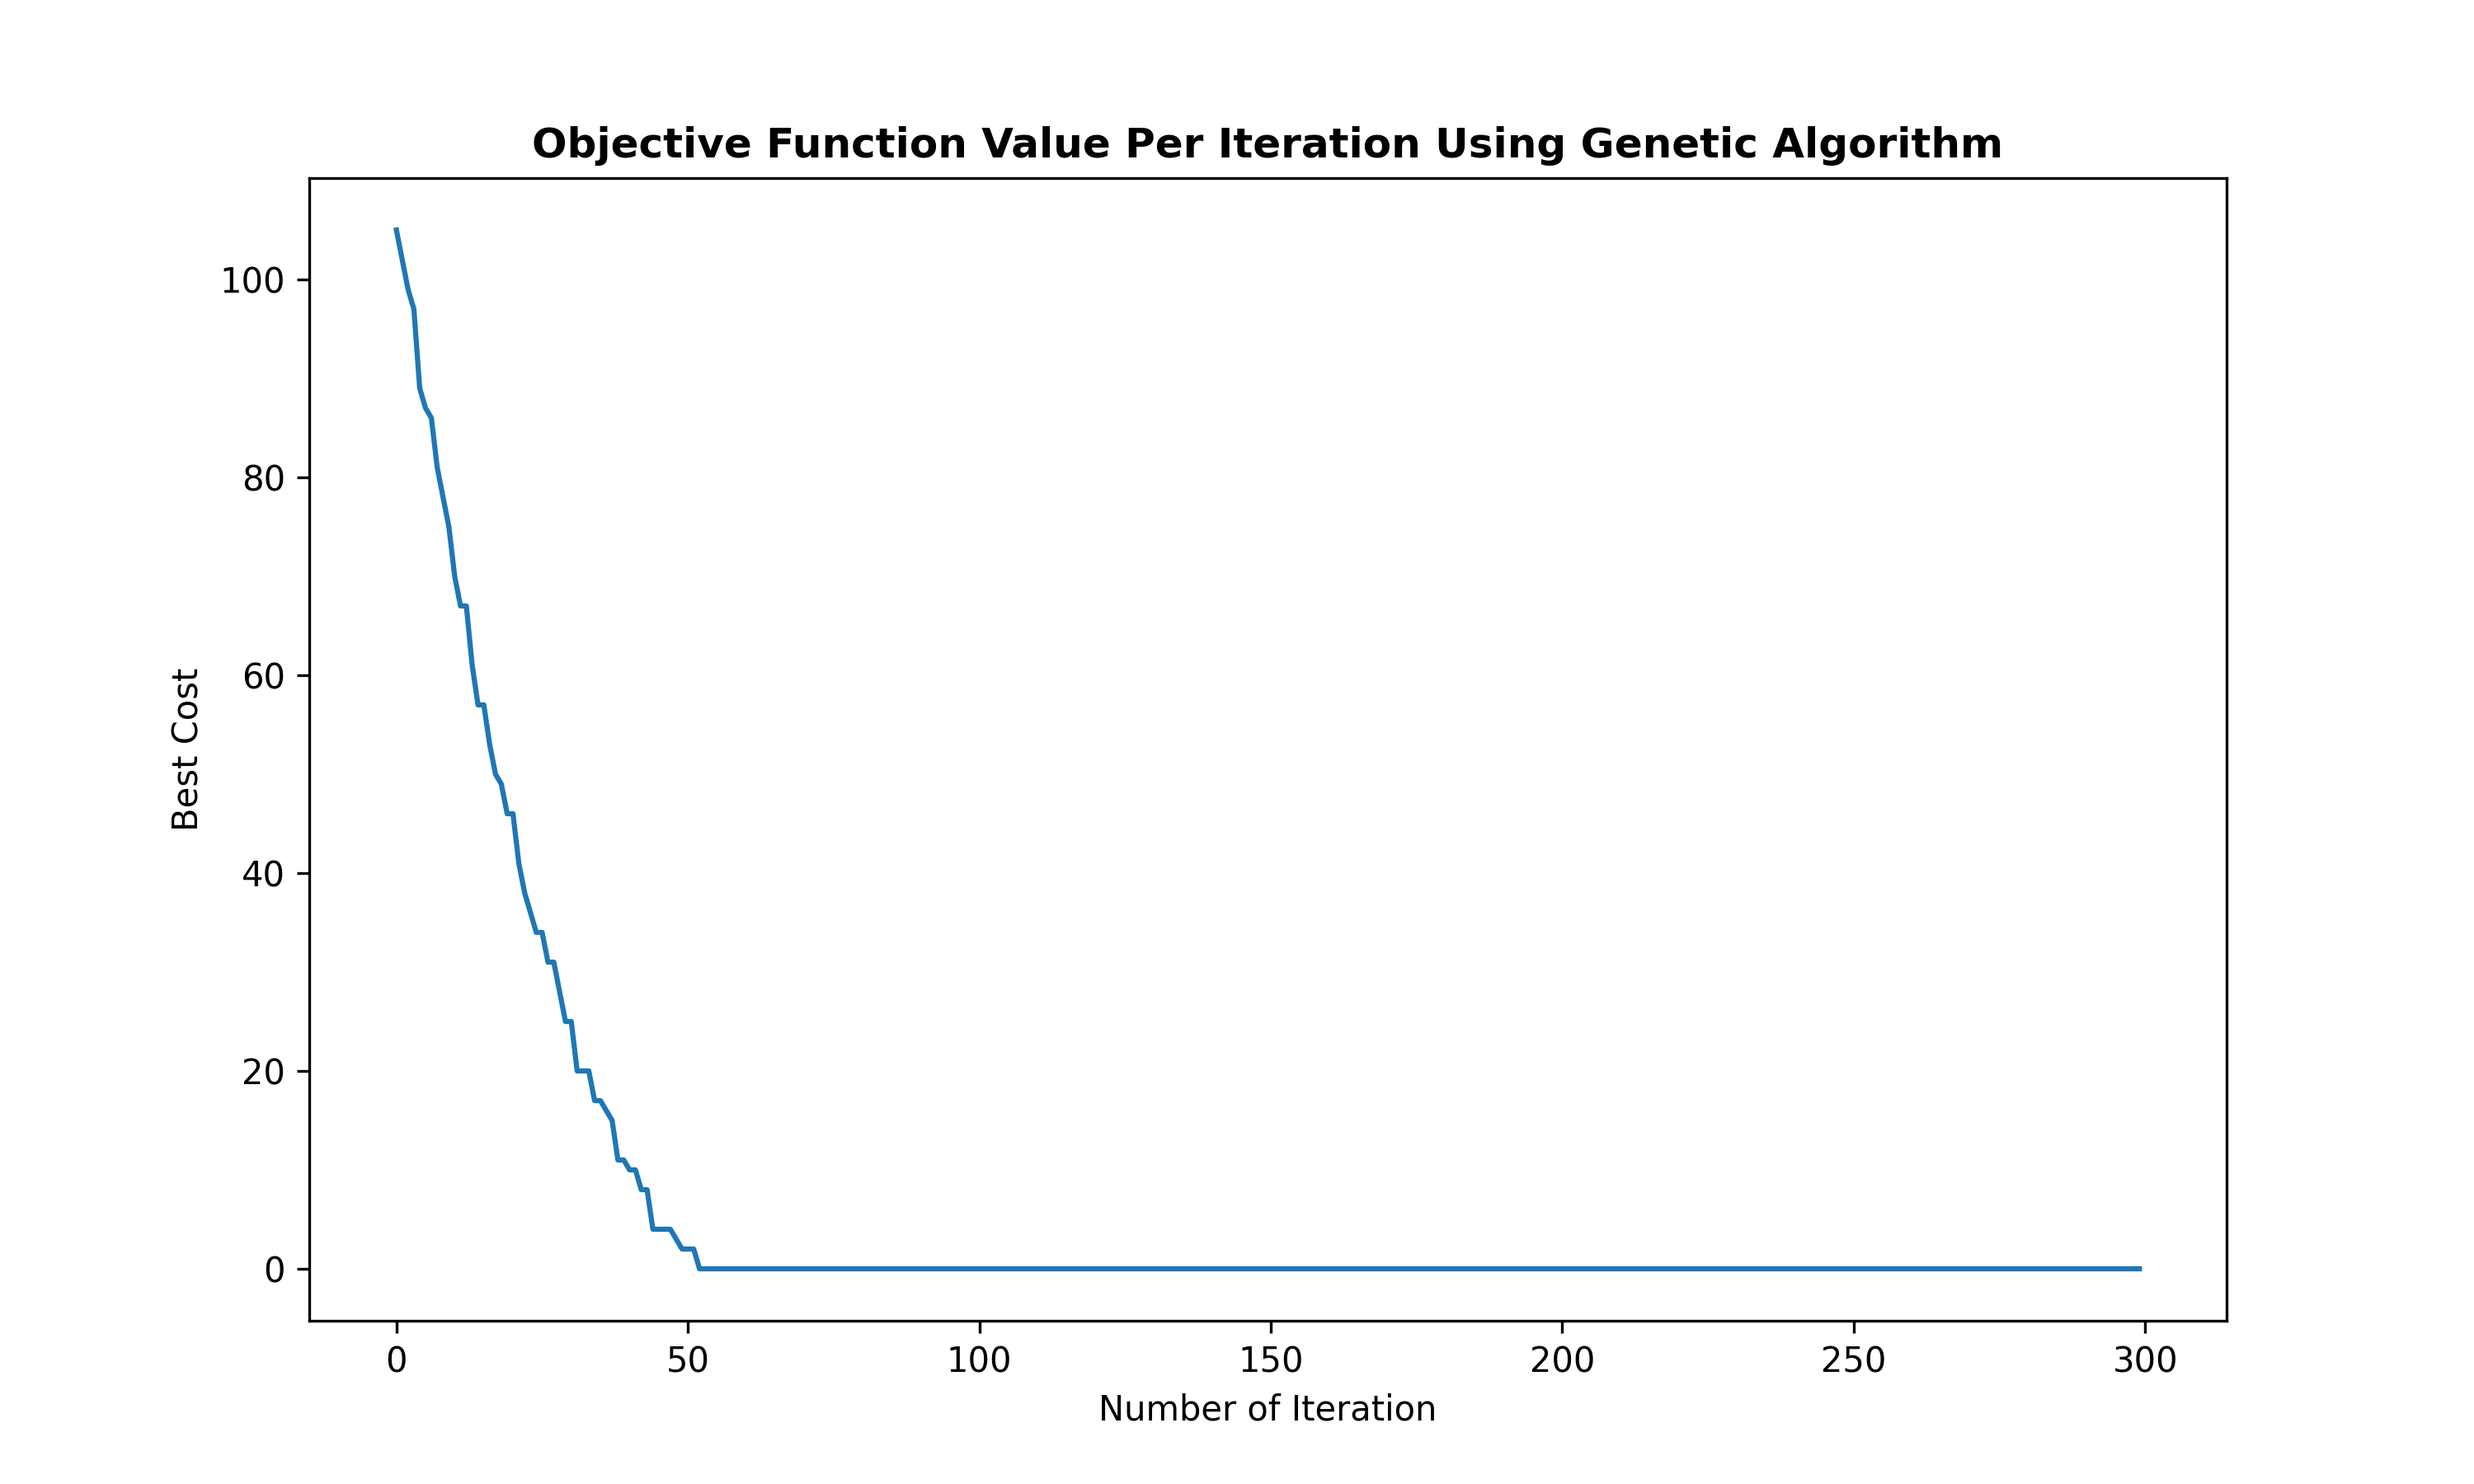
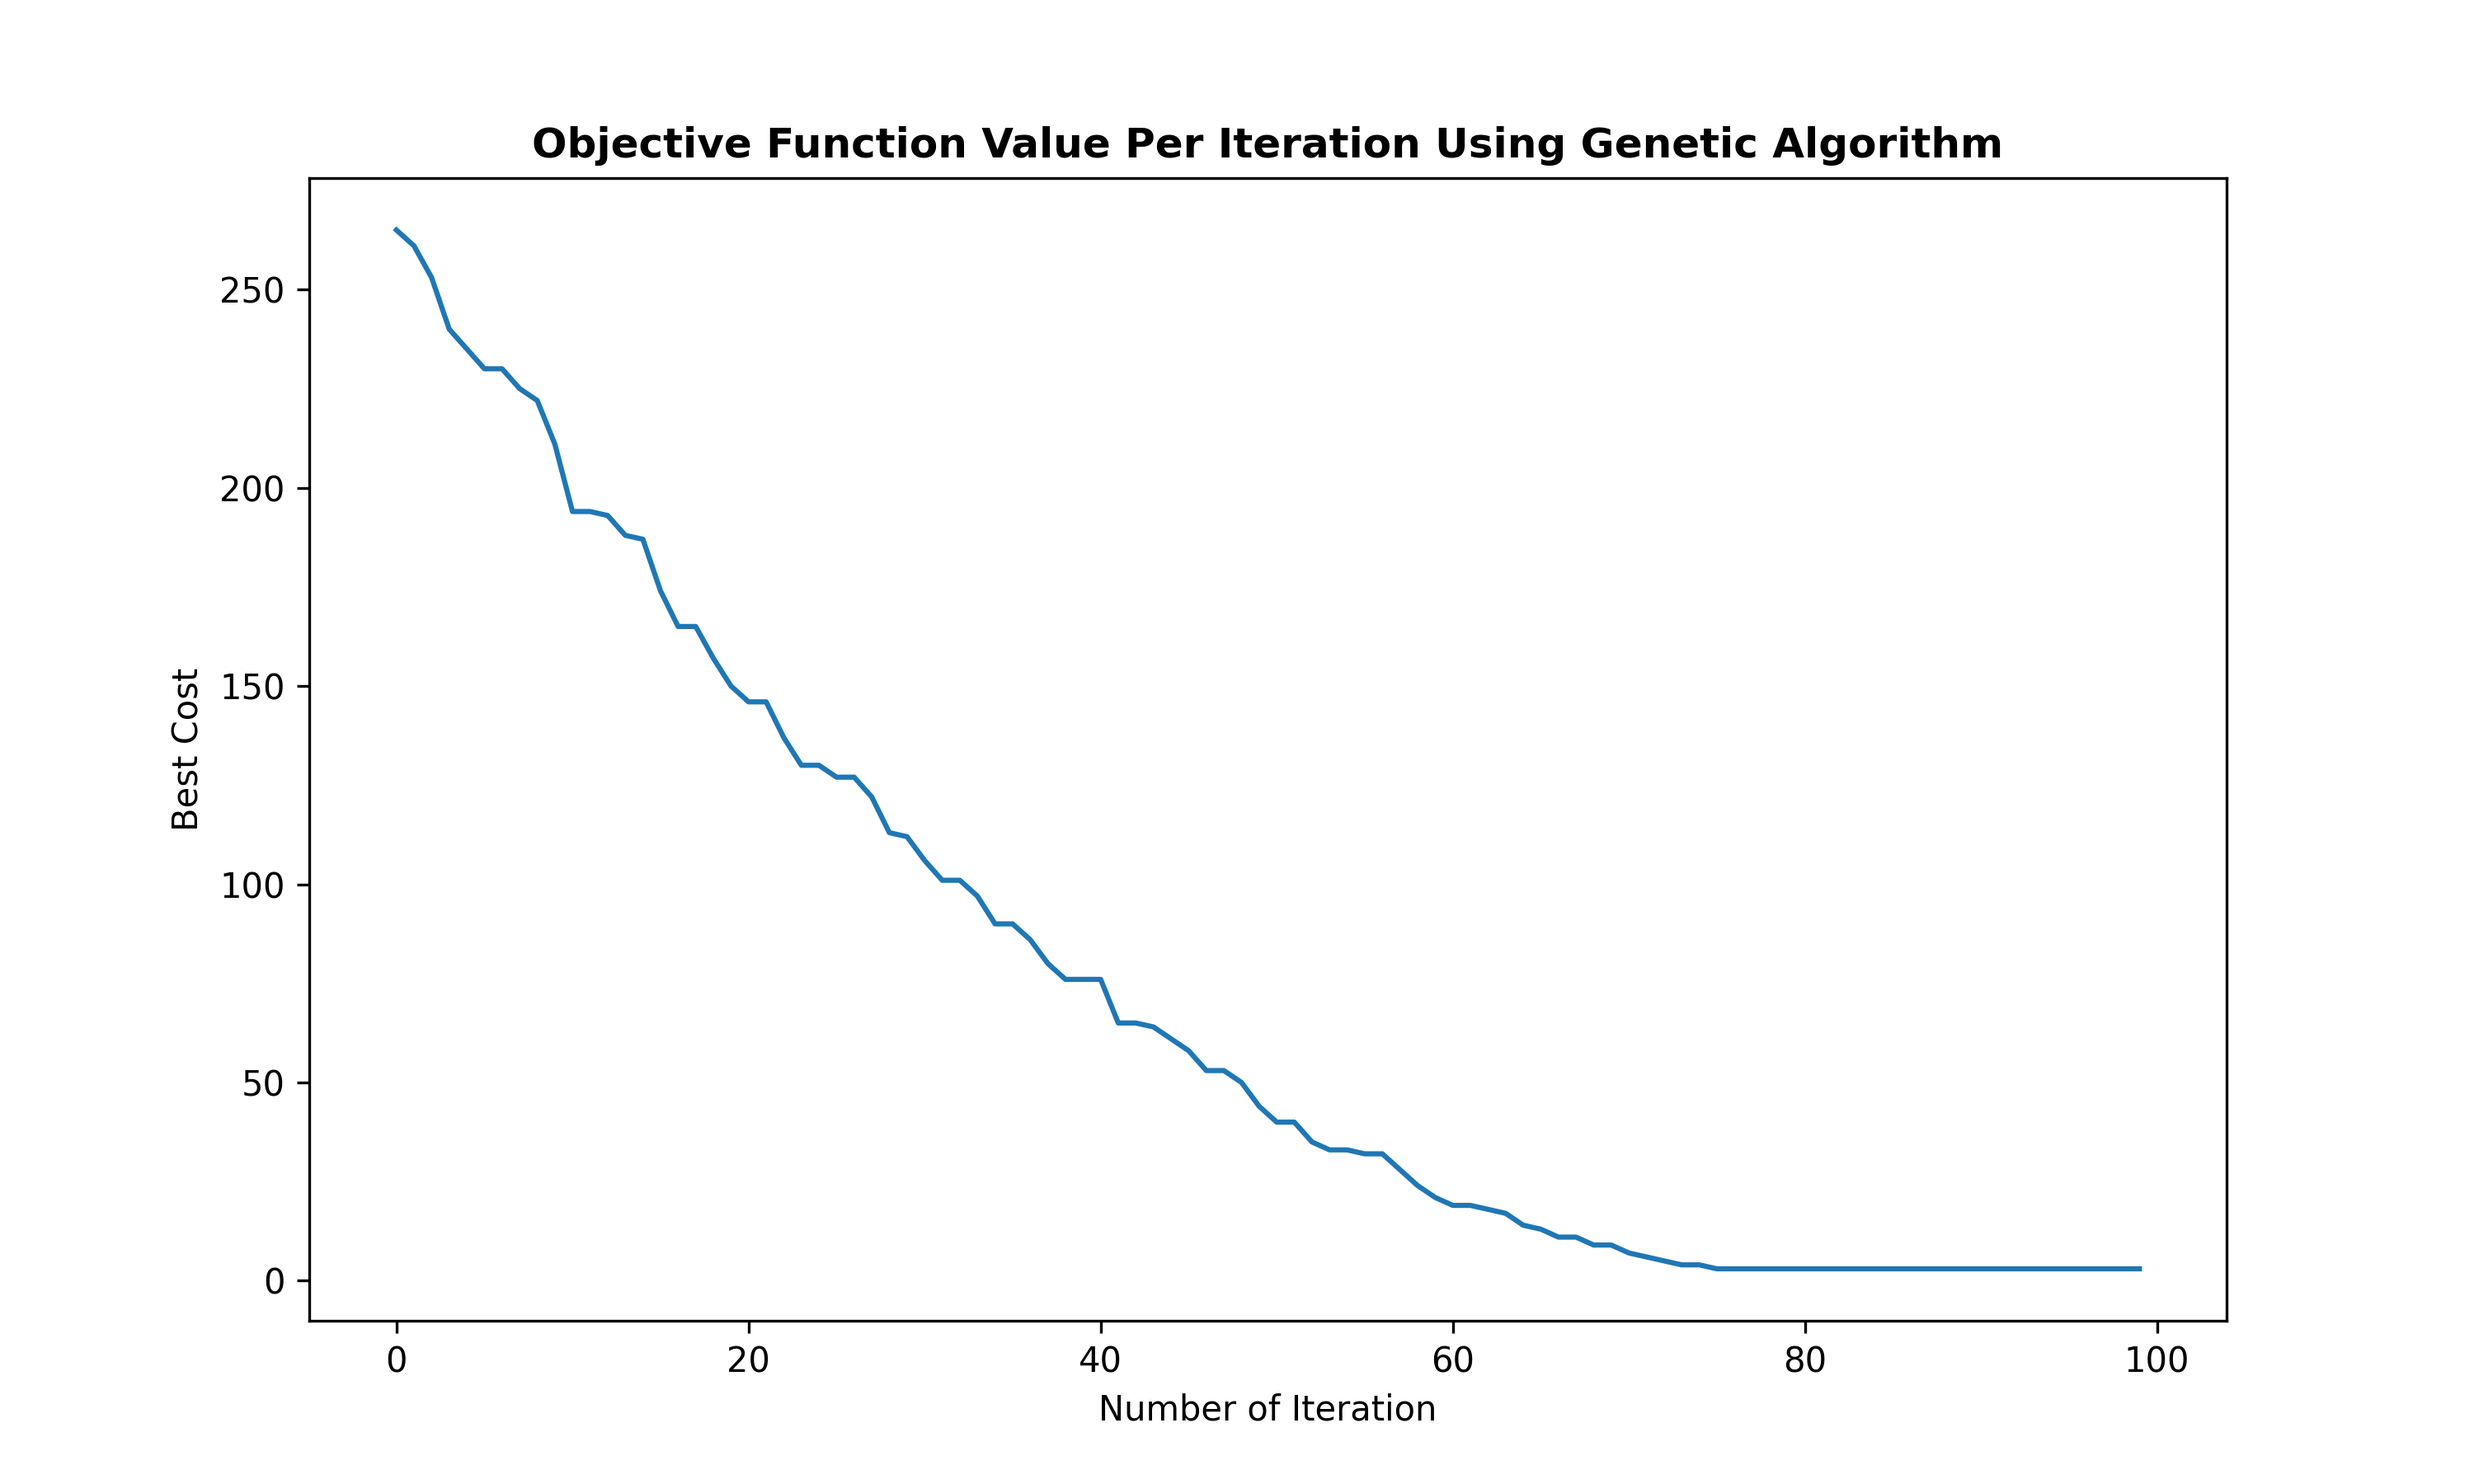
minOne problem with 600 binary variables. (best cost=3.0)

diff --git a/min_one_problem/main.py b/min_one_problem/main.py
@@ -7,19 +7,19 @@ def main():
 
     cost_func = cost_function
 
-    type_number_of_variables = {"binary1D": [250]}
+    type_number_of_variables = {"binary1D": [600]}
 
     solution_method = GA(cost_function=cost_func,
                          type_number_of_variables=type_number_of_variables,
-                         max_iteration=300,
-                         number_of_population=100,
+                         max_iteration=100,
+                         number_of_population=150,
                          parents_selection_method="roulette_wheel_selection",
                          selection_pressure_for_roulette_wheel=7,
                          tournament_size=2,
                          crossover_method="uniform",
-                         crossover_percentage=0.7,
+                         crossover_percentage=0.9,
                          mutation_percentage=0.4,
-                         mutation_rate=0.02,
+                         mutation_rate=0.03,
                          gamma_for_crossover=0.1,
                          gamma_for_mutation=0.1,
                          plot_cost_function=True)
